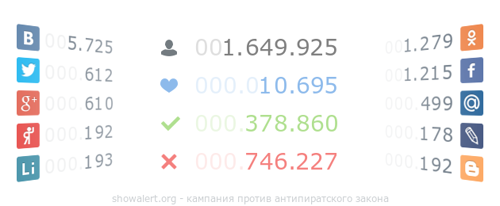
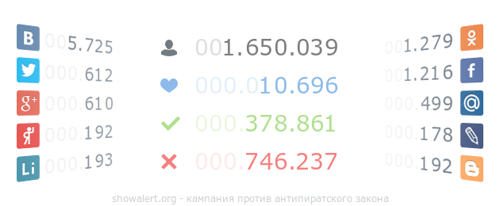
some updates

diff --git a/votes.js b/votes.js
@@ -1,1 +1,1 @@
-window.lk.votes(28055)
+window.lk.votes(28056)
